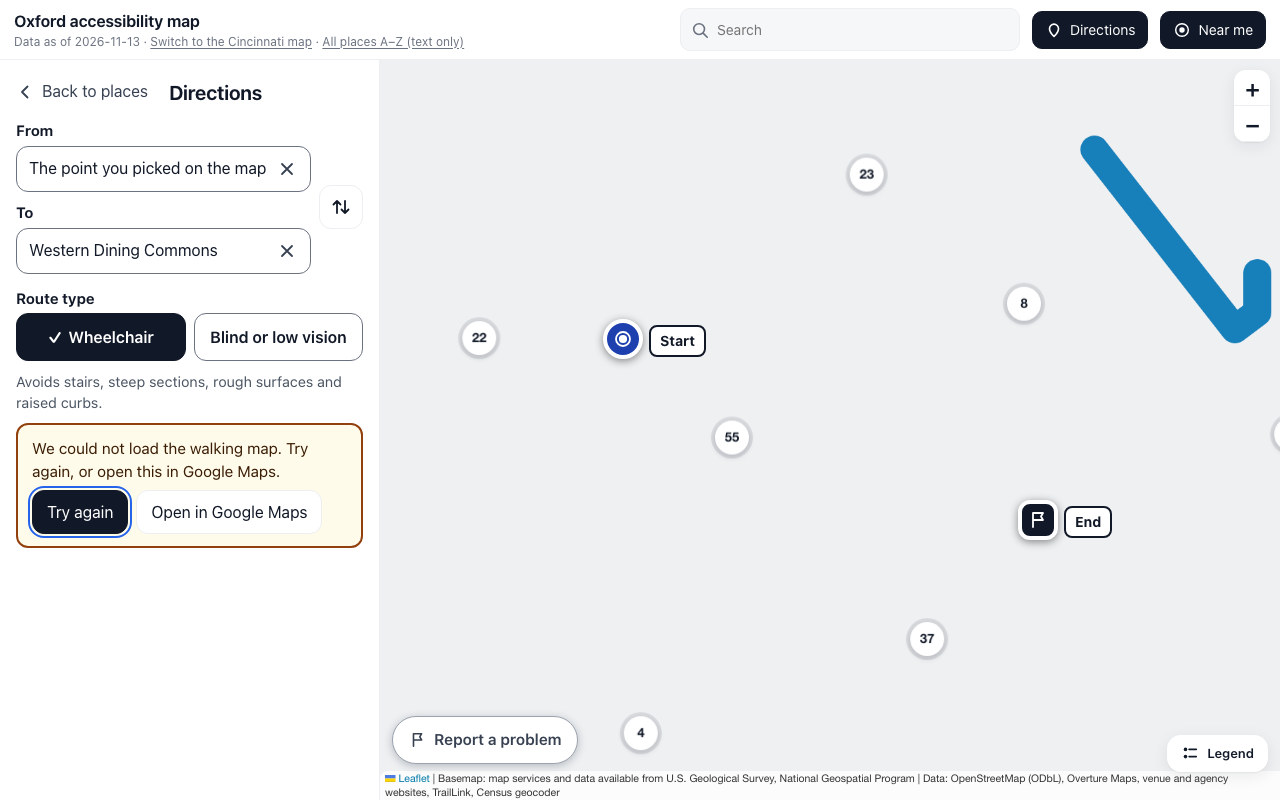
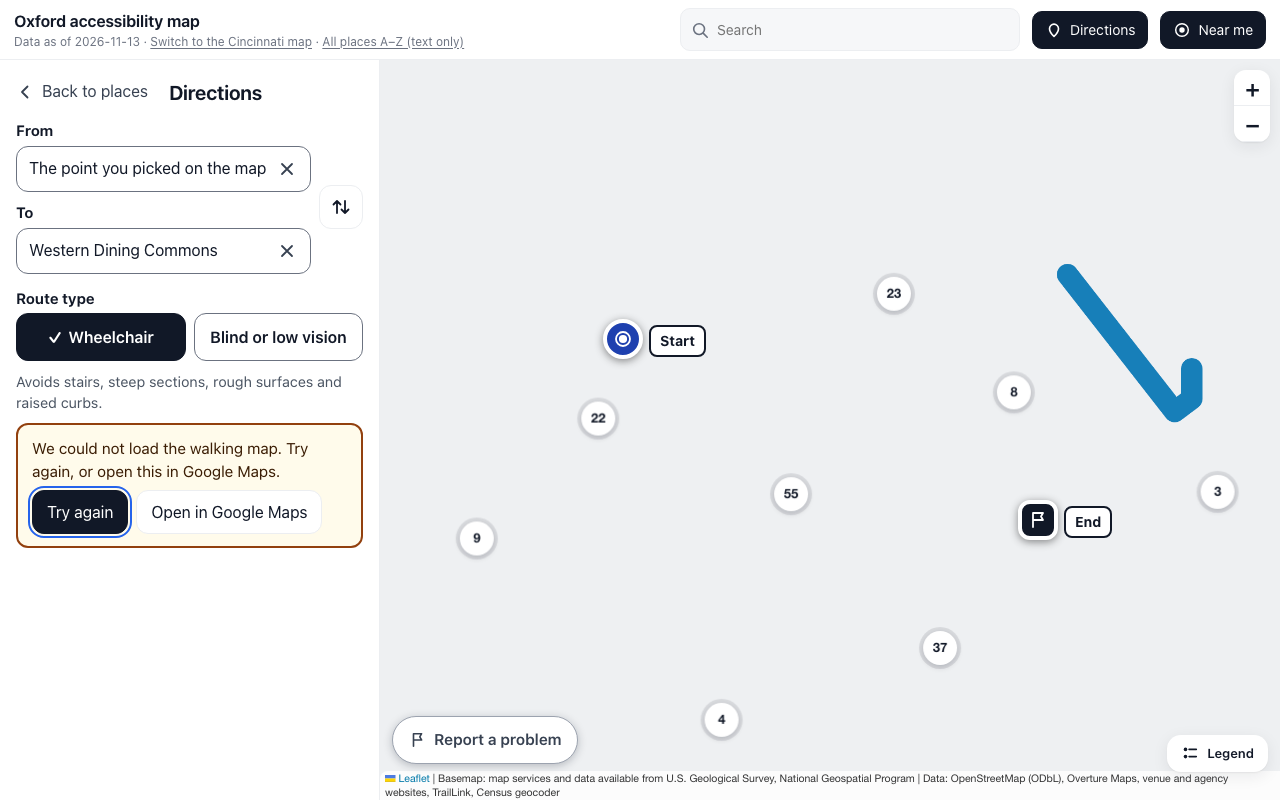
R9: review script (20 UI routes match Python), screenshots refreshed, formatting

diff --git a/src/atlas/web/panel.js b/src/atlas/web/panel.js
@@ -1161,6 +1161,9 @@ self.onmessage = async (e) => {
     get result() {
       return S.result;
     },
+    get points() {
+      return { from: S.from && S.from.pt, to: S.to && S.to.pt };
+    },
   };
   window.addEventListener('atlas:route-to', (e) => {
     const d = (e && e.detail) || {};

diff --git a/scripts/review_routes.py b/scripts/review_routes.py
@@ -1,0 +1,102 @@
+# ruff: noqa: E501
+"""R9 review: ten real Oxford routes through the page in headless Chromium, each compared with Python routing.route().
+
+    scripts/serve_routing.sh &        # port 8001
+    PYTHONPATH=src python scripts/review_routes.py
+Prints one line per route and flags routes that look odd (likely missing OpenStreetMap data, not code bugs).
+"""
+
+import json
+import math
+from pathlib import Path
+
+from playwright.sync_api import sync_playwright
+
+from atlas import routing
+
+ROOT = Path(__file__).resolve().parents[1]
+PAIRS = [
+    ("King Library", "Armstrong Student Center"),
+    ("Hall Auditorium", "Oxford Doughnut Shoppe"),
+    ("Western Dining Commons", "Farmer School of Business"),
+    ("Martin Dining Hall", "Yager Stadium"),
+    ("Hodge Hall", "Kofenya"),
+    ("McGuffey House and Museum", "Richard and Carole Cocks Art Museum"),
+    ("Recreational Sports Center", "King Library"),
+    ("Center for the Performing Arts", "Peffer Park"),
+    ("Oxford Lane Library", "Graeter's Ice Cream"),
+    ("Tappan Hall", "Shriver Center"),
+]
+PNG = bytes.fromhex(
[1 lines of base64/hex data omitted]
+)
+
+
+def main(base="http://localhost:8001"):
+    ids = {
+        f["properties"]["name"]: f["properties"]["link_id"]
+        for f in json.loads((ROOT / "data/map/oxford_atlas.geojson").read_text())["features"]
+    }
+    rows = []
+    with sync_playwright() as p:
+        b = p.chromium.launch()
+        page = b.new_page(viewport={"width": 1280, "height": 800})
+        page.route(
+            "**/basemap.nationalmap.gov/**",
+            lambda r: r.fulfill(status=200, content_type="image/png", body=PNG),
+        )
+        page.goto(base + "/oxford.html")
+        page.wait_for_selector("#list .card", state="attached")
+        for a, z in PAIRS:
+            for profile in ("wheelchair", "blind"):
+                page.goto(f"{base}/oxford.html#route={ids[a]},{ids[z]}&profile={profile}")
+                page.wait_for_function("['route','no-route','too-far','same'].includes(AtlasRouting.state)")
+                st = page.evaluate("AtlasRouting.state")
+                if st != "route":
+                    rows.append((a, z, profile, st, "", [], False))
+                    continue
+                res, pts = page.evaluate("[AtlasRouting.result, AtlasRouting.points]")
+                py = routing.route(
+                    "oxford", pts["from"][0], pts["from"][1], pts["to"][0], pts["to"][1], profile
+                )
+                same = (
+                    py is not None
+                    and py["directions"] == res["directions"]
+                    and py["length_feet"] == res["length_feet"]
+                    and py["compared_with_shortest"] == res["compared_with_shortest"]
+                )
+                straight = math.hypot(
+                    (pts["from"][0] - pts["to"][0]) * 364000,
+                    (pts["from"][1] - pts["to"][1]) * 364000 * math.cos(math.radians(39.5)),
+                )
+                flags = []
+                if res["length_feet"] > 1.7 * straight and res["length_feet"] > 600:
+                    flags.append(f"long detour ({res['length_feet'] / straight:.1f}x straight line)")
+                if res["road_without_sidewalk_feet"] > 150:
+                    flags.append(f"{res['road_without_sidewalk_feet']} ft on road with no sidewalk mapped")
+                if res["steep_sections"] > 2:
+                    flags.append(f"{res['steep_sections']} steep sections")
+                if res["crossings"]["unmarked_or_unknown"]:
+                    flags.append(f"{res['crossings']['unmarked_or_unknown']} unmarked/unknown crossings")
+                rows.append(
+                    (
+                        a,
+                        z,
+                        profile,
+                        st,
+                        f"{res['length_feet']} ft, {len(res['directions'])} steps, {res['crossings']['total']} crossings",
+                        flags,
+                        same,
+                    )
+                )
+        b.close()
+    ok = all(r[6] for r in rows if r[3] == "route")
+    for a, z, prof, st, summ, flags, same in rows:
+        print(
+            f"{a} -> {z} [{prof}] {st} {summ} | python {'MATCH' if same else 'DIFFERENT' if st == 'route' else '-'} | {'; '.join(flags) or 'nothing odd'}"
+        )
+    print("ALL MATCH PYTHON" if ok else "MISMATCH")
+
+
+if __name__ == "__main__":
+    main()

diff --git a/scripts/measure_routing.py b/scripts/measure_routing.py
@@ -35,8 +35,15 @@ def run(base, region):
     graph = ROOT / "data" / "map" / "routing" / f"{region}.graph.json"
     raw = graph.read_bytes()
     out = {"region": region, "raw_mb": len(raw) / 1e6, "gzip_mb": len(gzip.compress(raw, 6)) / 1e6}
-    golden = json.loads((ROOT / "tests" / f"golden_routes_{region}.json").read_text()) if region == "oxford" else None
-    feats = {f["properties"]["name"]: f["properties"]["link_id"] for f in json.loads((ROOT / "data" / "map" / f"{region}_atlas.geojson").read_text())["features"]}
+    golden = (
+        json.loads((ROOT / "tests" / f"golden_routes_{region}.json").read_text())
+        if region == "oxford"
+        else None
+    )
+    feats = {
+        f["properties"]["name"]: f["properties"]["link_id"]
+        for f in json.loads((ROOT / "data" / "map" / f"{region}_atlas.geojson").read_text())["features"]
+    }
     cases = {}
     if not golden:  # other regions: pick place pairs about 0.4 km and about 5 km apart (the first that route)
         import math
@@ -62,18 +69,27 @@ def run(base, region):
         browser = p.chromium.launch()
         # CPU throttling applies to the page's main thread only, not to Web Workers; "main_thread" has no
         # Worker, so the same code runs on the (throttled) main thread: the worst case for a slow phone.
-        for label, rate, workers in (("laptop_worker", 1, True), ("cpu_x4_worker", 4, True), ("cpu_x4_main_thread", 4, False)):
+        for label, rate, workers in (
+            ("laptop_worker", 1, True),
+            ("cpu_x4_worker", 4, True),
+            ("cpu_x4_main_thread", 4, False),
+        ):
             ctx = browser.new_context(viewport={"width": 1280, "height": 800})
             if not workers:
                 ctx.add_init_script("window.Worker = undefined")
             page = ctx.new_page()
-            page.route("**/basemap.nationalmap.gov/**", lambda r: r.fulfill(status=200, content_type="image/png", body=PNG))
+            page.route(
+                "**/basemap.nationalmap.gov/**",
+                lambda r: r.fulfill(status=200, content_type="image/png", body=PNG),
+            )
             page.goto(f"{base}/{region}.html")
             page.wait_for_selector("#list .card", state="attached")
             cdp = ctx.new_cdp_session(page)
             cdp.send("Emulation.setCPUThrottlingRate", {"rate": rate})
             r = {}
-            r["panel_open_ms"] = page.evaluate("() => { const t = performance.now(); document.getElementById('dir-open').click(); return performance.now() - t; }")
+            r["panel_open_ms"] = page.evaluate(
+                "() => { const t = performance.now(); document.getElementById('dir-open').click(); return performance.now() - t; }"
+            )
             page.evaluate("AtlasRouting.close()")
             for name, spec in cases.items():
                 tries = spec if isinstance(spec, list) else [spec]
@@ -86,7 +102,13 @@ def run(base, region):
                     r[f"{name}_note"] = "no candidate pair routed"
                 if name == "short":
                     st = page.evaluate("AtlasRouting.stats")
-                    r.update(first_route_incl_download_ms=cold, download_parse_ms=st["loadMs"], graph_build_ms=st["buildMs"], nodes=st["nodes"], edges=st["edges"])
+                    r.update(
+                        first_route_incl_download_ms=cold,
+                        download_parse_ms=st["loadMs"],
+                        graph_build_ms=st["buildMs"],
+                        nodes=st["nodes"],
+                        edges=st["edges"],
+                    )
                 times = []
                 for _ in range(15):
                     page.evaluate("AtlasRouting.close()")
@@ -94,7 +116,9 @@ def run(base, region):
                     times.append(page.evaluate("AtlasRouting.stats.searchMs"))
                 r[f"search_{name}_ms_median"] = statistics.median(times)
                 r[f"search_{name}_ms_max"] = max(times)
-                r[f"result_{name}_feet"] = page.evaluate("AtlasRouting.result && AtlasRouting.result.length_feet")
+                r[f"result_{name}_feet"] = page.evaluate(
+                    "AtlasRouting.result && AtlasRouting.result.length_feet"
+                )
             out[label] = r
             ctx.close()
         browser.close()

diff --git a/scripts/routing_screenshots.py b/scripts/routing_screenshots.py
@@ -30,6 +30,10 @@ def link_ids():
 IDS = link_ids()
 
 
+def holder(held):
+    return lambda route: held.append(route)
+
+
 def pick(page, field, text):
     page.fill(f"#dp-{field}", text)
     page.wait_for_selector(f"#dp-{field}-list [role=option]")
@@ -134,7 +138,7 @@ def run(base):
                 "**/basemap.nationalmap.gov/**",
                 lambda r: r.fulfill(status=200, content_type="image/png", body=PNG),
             )
-            p2.route("**/routing/oxford.graph.json", lambda r, held=held: held.append(r))
+            p2.route("**/routing/oxford.graph.json", holder(held))
             p2.goto(base + "/oxford.html")
             p2.wait_for_selector("#list .card", state="attached")
             p2.evaluate(
@@ -146,9 +150,6 @@ def run(base):
             p2.wait_for_selector("#dirp[data-state=load-error]")
             p2.screenshot(path=str(OUT / f"{view}-14-load-error.png"))
             ctx2.close()
-            # a different city (index page holds both) and a city without routing
-            fresh("/cincinnati.html")
-            assert page.locator("#dir-open").count() == 0
             ctx.close()
         browser.close()
 
